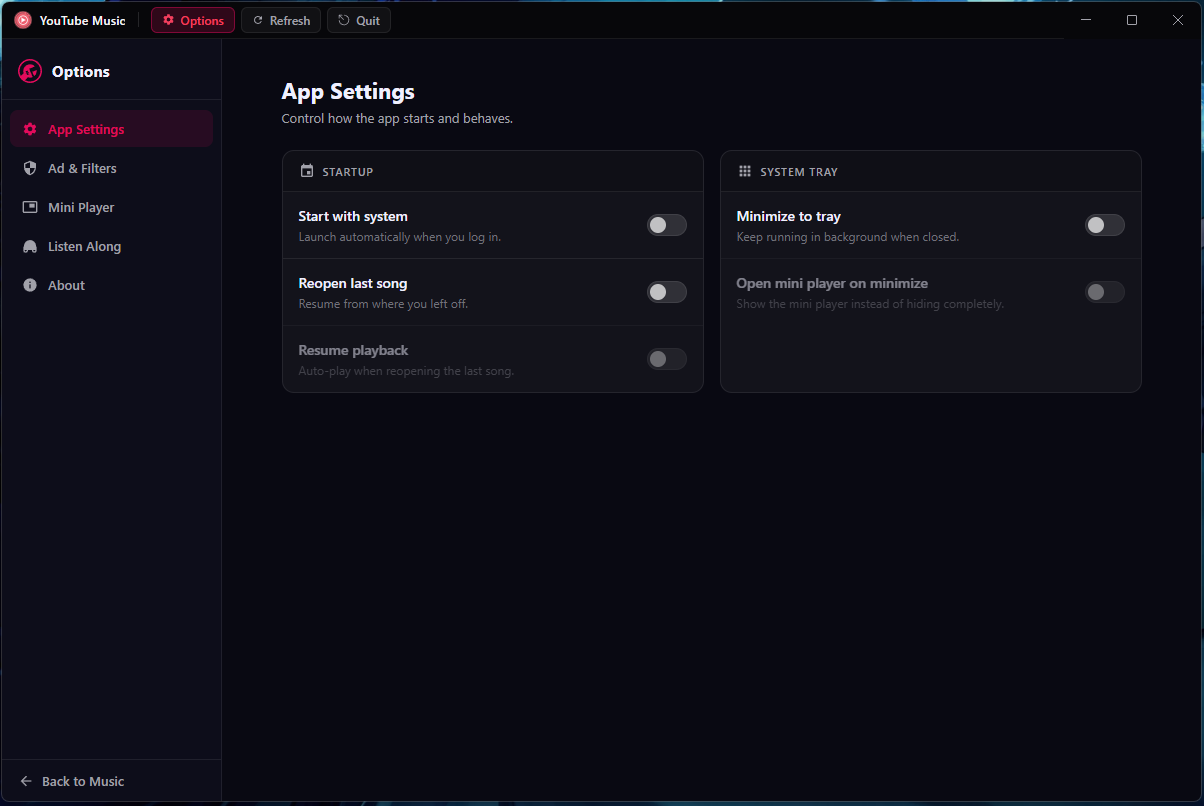
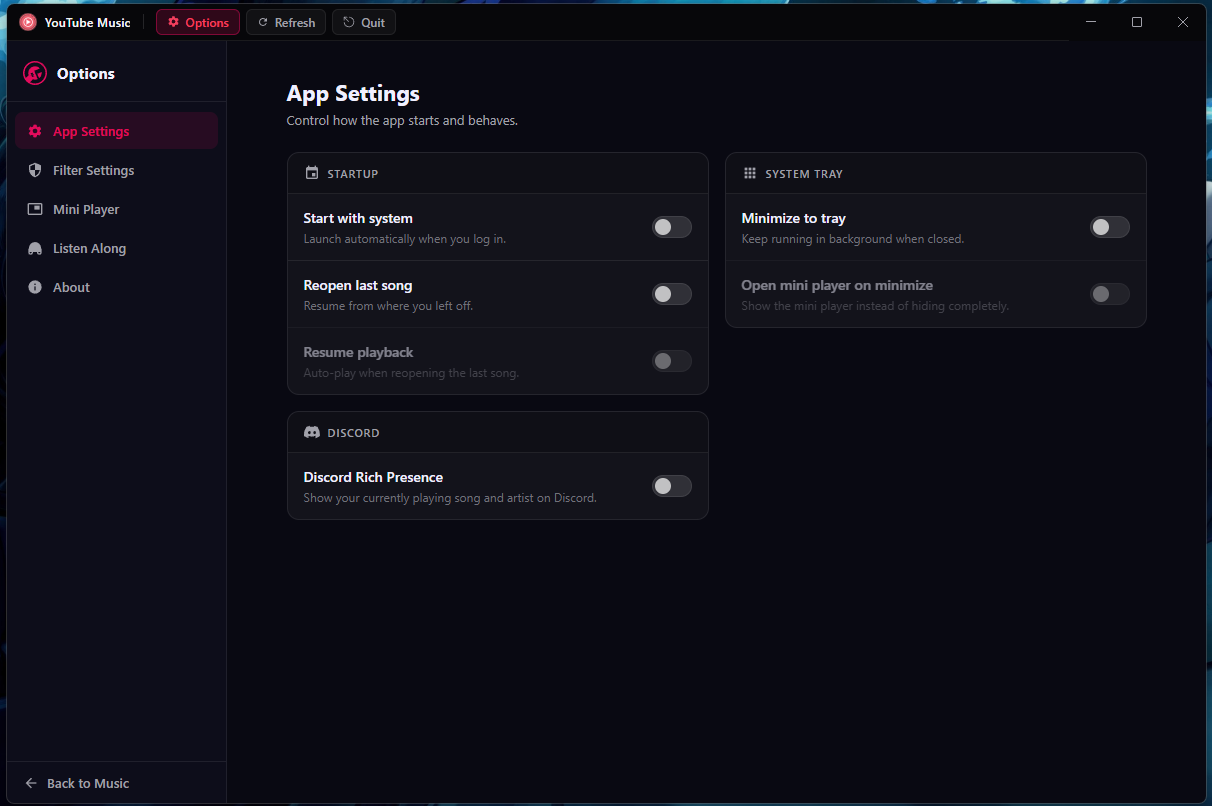
Discord RPC now has toggle turn on and off

diff --git a/options/options.html b/options/options.html
@@ -25,7 +25,7 @@
       </button>
       <button class="nav-item" data-tab="adblock">
         <svg viewBox="0 0 24 24" fill="currentColor"><path d="M12 1L3 5v6c0 5.55 3.84 10.74 9 12 5.16-1.26 9-6.45 9-12V5l-9-4zm0 10.99h7c-.53 4.12-3.28 7.79-7 8.94V12H5V6.3l7-3.11v8.8z"/></svg>
-        <span>Ad & Filters</span>
+        <span>Filter Settings</span>
       </button>
       <button class="nav-item" data-tab="miniplayer">
         <svg viewBox="0 0 24 24" fill="currentColor"><path d="M19 7h-8v6h8V7zm2-4H3C1.9 3 1 3.9 1 5v14c0 1.1.9 2 2 2h18c1.1 0 2-.9 2-2V5c0-1.1-.9-2-2-2zm0 16H3V5h18v14z"/></svg>
@@ -110,22 +110,38 @@
             <label class="switch"><input type="checkbox" id="miniplayer-on-minimize"><span class="slider"></span></label>
           </div>
         </div>
+
+        <div class="card">
+          <div class="card-header">
+            <div class="card-title">
+              <svg viewBox="0 0 24 24" fill="currentColor" width="16" height="16"><path d="M20.317 4.37a19.791 19.791 0 0 0-4.885-1.515.074.074 0 0 0-.079.037c-.21.375-.444.864-.608 1.25a18.27 18.27 0 0 0-5.487 0 12.64 12.64 0 0 0-.617-1.25.077.077 0 0 0-.079-.037A19.736 19.736 0 0 0 3.677 4.37a.07.07 0 0 0-.032.027C.533 9.046-.32 13.58.099 18.057a.082.082 0 0 0 .031.057 19.9 19.9 0 0 0 5.993 3.03.078.078 0 0 0 .084-.028c.462-.63.874-1.295 1.226-1.994.021-.041.001-.09-.041-.106a13.107 13.107 0 0 1-1.872-.892.077.077 0 0 1-.008-.128 10.2 10.2 0 0 0 .372-.292.074.074 0 0 1 .077-.01c3.929 1.793 8.18 1.793 12.061 0a.074.074 0 0 1 .078.01c.12.098.246.198.373.292a.077.077 0 0 1-.006.127 12.299 12.299 0 0 1-1.873.894.077.077 0 0 0-.041.107c.36.698.772 1.362 1.225 1.993a.076.076 0 0 0 .084.028 19.839 19.839 0 0 0 6.002-3.03.077.077 0 0 0 .032-.054c.5-5.177-.838-9.674-3.549-13.66a.061.061 0 0 0-.031-.028zM8.02 15.33c-1.183 0-2.157-1.085-2.157-2.419 0-1.333.956-2.419 2.157-2.419 1.21 0 2.176 1.096 2.157 2.42 0 1.333-.956 2.418-2.157 2.418zm7.975 0c-1.183 0-2.157-1.085-2.157-2.419 0-1.333.955-2.419 2.157-2.419 1.21 0 2.176 1.096 2.157 2.42 0 1.333-.946 2.418-2.157 2.418z"/></svg>
+              Discord
+            </div>
+          </div>
+          <div class="toggle-row">
+            <div class="toggle-info">
+              <span class="toggle-label">Discord Rich Presence</span>
+              <span class="toggle-desc">Show your currently playing song and artist on Discord.</span>
+            </div>
+            <label class="switch"><input type="checkbox" id="discord-rpc"><span class="slider"></span></label>
+          </div>
+        </div>
       </div>
     </section>
 
     <!-- Ad & filters tab -->
     <section class="tab-pane" id="tab-adblock">
       <div class="pane-header">
-        <h1 class="pane-title">Ad & Filters</h1>
-        <p class="pane-subtitle">Manage adblock lists and video ad skipping.</p>
+        <h1 class="pane-title">Filter Settings</h1>
+        <p class="pane-subtitle">Manage request filter lists and video skipping.</p>
       </div>
 
-      <!-- Adblock Status -->
+      <!-- Filter Status -->
       <div class="card status-card">
         <div class="card-header">
           <div class="card-title">
             <svg viewBox="0 0 24 24" fill="currentColor" width="16" height="16" style="color:var(--accent)"><path d="M12 1L3 5v6c0 5.55 3.84 10.74 9 12 5.16-1.26 9-6.45 9-12V5l-9-4zm0 10.99h7c-.53 4.12-3.28 7.79-7 8.94V12H5V6.3l7-3.11v8.8z"/></svg>
-            Adblock Status
+            Filter Status
           </div>
         </div>
         <div class="status-grid">
@@ -136,18 +152,18 @@
         </div>
       </div>
 
-      <!-- Video Ad Skipper -->
+      <!-- Video Skipper -->
       <div class="card">
         <div class="card-header">
           <div class="card-title">
             <svg viewBox="0 0 24 24" fill="currentColor" width="16" height="16" style="color:var(--accent2)"><path d="M4 18l8.5-6L4 6v12zm9-12v12l8.5-6L13 6z"/></svg>
-            Video Ad Skipper
+            Video Skipper
           </div>
         </div>
         <div class="toggle-row">
           <div class="toggle-info">
             <span class="toggle-label">Simple Skipper</span>
-            <span class="toggle-desc">Auto-skips video ads at the selected playback speed.</span>
+            <span class="toggle-desc">Auto-skips promo videos at the selected playback speed.</span>
           </div>
           <div class="toggle-controls">
             <select id="ad-skip-speed" class="select-box">

diff --git a/main.js b/main.js
@@ -27,7 +27,11 @@ const {
   resetAdblockStats: resetAdblockStatsExternal,
 } = require("./adblock/filters");
 const { injectVideoAdSkipper } = require("./adblock/videoAdSkipper");
-const { initDiscordRpc } = require("./integrations/discordRpc");
+const {
+  initDiscordRpc,
+  setDiscordRpcEnabled,
+  isDiscordRpcEnabled,
+} = require("./integrations/discordRpc");
 const {
   initListenAlong,
   createParty,
@@ -70,6 +74,7 @@ let openLastSong = false;
 let resumePlayback = false;
 let lastUrl = "https://music.youtube.com";
 let mainWindowBounds = { x: undefined, y: undefined, width: 1200, height: 800 };
+let discordRpcEnabled = true;
 
 // Listen Along
 let listenAlongServerUrl = DEFAULT_SERVER_URL;
@@ -158,6 +163,7 @@ async function loadConfig() {
       ? config.lastUrl || "https://music.youtube.com"
       : "https://music.youtube.com";
     resumePlayback = config.resumePlayback || false;
+    discordRpcEnabled = config.discordRpcEnabled !== undefined ? !!config.discordRpcEnabled : true;
     mainWindowBounds = config.mainWindowBounds || {
       x: undefined,
       y: undefined,
@@ -194,6 +200,7 @@ async function saveConfig() {
       lastUrl: lastUrl,
       openLastSong: openLastSong,
       resumePlayback: resumePlayback,
+      discordRpcEnabled: discordRpcEnabled,
       miniPlayerBounds: miniConfig.miniPlayerBounds,
       mainWindowBounds: mainWindowBounds,
       miniPlayerTheme: miniConfig.miniPlayerTheme,
@@ -614,6 +621,7 @@ ipcMain.handle("options:get-app-settings", () => {
     resumePlayback,
     minimizeToTray,
     openMiniPlayerOnMinimize: getOpenMiniPlayerOnMinimize(),
+    discordRpcEnabled,
   };
 });
 
@@ -625,6 +633,11 @@ ipcMain.on("options:save-app-settings", (event, s) => {
   if (typeof s.resumePlayback === "boolean") toggleResumeBehavior(s.resumePlayback);
   if (typeof s.minimizeToTray === "boolean") toggleTrayBehavior(s.minimizeToTray);
   if (typeof s.openMiniPlayerOnMinimize === "boolean") toggleMiniPlayerOnMinimize(s.openMiniPlayerOnMinimize);
+  if (typeof s.discordRpcEnabled === "boolean" && s.discordRpcEnabled !== discordRpcEnabled) {
+    discordRpcEnabled = s.discordRpcEnabled;
+    setDiscordRpcEnabled(discordRpcEnabled);
+    saveConfig();
+  }
 });
 
 ipcMain.handle("options:check-for-updates", async () => {
@@ -1074,7 +1087,7 @@ async function createWindow() {
         isDestroyed: () => !ytView || ytView.webContents.isDestroyed(),
         loadURL: (url) => ytView.webContents.loadURL(url),
       };
-      initDiscordRpc(playerHost);
+      initDiscordRpc(playerHost, discordRpcEnabled);
       initListenAlong(playerHost, pushListenAlongState);
       require("./listen-along/listenAlong").setAutoHost(listenAlongAutoHost, listenAlongHostName);
       if (listenAlongAutoHost && listenAlongHostName && listenAlongHostName.trim().length >= 3) {

diff --git a/integrations/discordRpc.js b/integrations/discordRpc.js
@@ -6,16 +6,39 @@ let client = null;
 let presenceUpdateInterval = null;
 let reconnectTimer = null;
 let connecting = false;
+let rpcEnabled = true;
+
+function isDiscordRpcEnabled() {
+  return rpcEnabled;
+}
+
+function setDiscordRpcEnabled(enabled) {
+  const next = !!enabled;
+  if (rpcEnabled === next) return;
+  rpcEnabled = next;
+  console.log(`[Discord RPC] Enabled: ${rpcEnabled}`);
+  if (!rpcEnabled) {
+    if (reconnectTimer) {
+      clearTimeout(reconnectTimer);
+      reconnectTimer = null;
+    }
+    teardownClient();
+  } else {
+    if (mainWindowRef && !mainWindowRef.isDestroyed()) {
+      connectToDiscord();
+    }
+  }
+}
 
 function isClientAlive(c) {
   return !!c && (typeof c.isConnected === "boolean" ? c.isConnected : true);
 }
 
 function scheduleReconnect(delay = 10000) {
-  if (reconnectTimer) return;
+  if (!rpcEnabled || reconnectTimer) return;
   reconnectTimer = setTimeout(() => {
     reconnectTimer = null;
-    connectToDiscord();
+    if (rpcEnabled) connectToDiscord();
   }, delay);
 }
 
@@ -28,6 +51,9 @@ function teardownClient() {
   client = null;
   if (old) {
     try {
+      if (typeof old.user?.clearActivity === "function") {
+        Promise.resolve(old.user.clearActivity()).catch(() => {});
+      }
       old.removeAllListeners();
       old.on("error", () => {});
       Promise.resolve(old.destroy()).catch(() => {});
@@ -36,6 +62,7 @@ function teardownClient() {
 }
 
 function handleDiscordDisconnect() {
+  if (!rpcEnabled) return;
   console.warn("Discord connection lost. Reconnecting in 10s...");
   teardownClient();
   scheduleReconnect();
@@ -268,7 +295,7 @@ async function getCurrentSongInfo() {
 }
 
 async function connectToDiscord() {
-  if (connecting) return;
+  if (!rpcEnabled || connecting) return;
   connecting = true;
 
   teardownClient();
@@ -327,7 +354,9 @@ async function connectToDiscord() {
   }
 }
 
-function initDiscordRpc(mainWindow) {
+function initDiscordRpc(mainWindow, enabled = true) {
+  rpcEnabled = enabled !== undefined ? !!enabled : true;
+
   if (!clientId) {
     console.warn("Discord RPC disabled: YTMP_DISCORD_CLIENT_ID is not set.");
     return;
@@ -339,9 +368,13 @@ function initDiscordRpc(mainWindow) {
   }
 
   mainWindowRef = mainWindow;
-  connectToDiscord();
+  if (rpcEnabled) {
+    connectToDiscord();
+  }
 }
 
 module.exports = {
   initDiscordRpc,
+  setDiscordRpcEnabled,
+  isDiscordRpcEnabled,
 };

diff --git a/options/options.js b/options/options.js
@@ -37,6 +37,7 @@ const openLastSongEl = document.getElementById('open-last-song');
 const resumePlayEl = document.getElementById('resume-playback');
 const minToTrayEl = document.getElementById('minimize-to-tray');
 const mpOnMinimizeEl = document.getElementById('miniplayer-on-minimize');
+const discordRpcEl = document.getElementById('discord-rpc');
 const resumeRow = document.getElementById('resume-row');
 const mpMinimizeRow = document.getElementById('miniplayer-on-minimize-row');
 
@@ -53,11 +54,12 @@ async function autoSaveAppSettings() {
     resumePlayback: resumePlayEl.checked,
     minimizeToTray: minToTrayEl.checked,
     openMiniPlayerOnMinimize: mpOnMinimizeEl.checked,
+    discordRpcEnabled: discordRpcEl ? discordRpcEl.checked : true,
   });
 }
 
-[startWithSystem, openLastSongEl, resumePlayEl, minToTrayEl, mpOnMinimizeEl].forEach(el => {
-  el.addEventListener('change', autoSaveAppSettings);
+[startWithSystem, openLastSongEl, resumePlayEl, minToTrayEl, mpOnMinimizeEl, discordRpcEl].forEach(el => {
+  if (el) el.addEventListener('change', autoSaveAppSettings);
 });
 
 async function loadAppSettings() {
@@ -67,6 +69,9 @@ async function loadAppSettings() {
   resumePlayEl.checked = s.resumePlayback;
   minToTrayEl.checked = s.minimizeToTray;
   mpOnMinimizeEl.checked = s.openMiniPlayerOnMinimize;
+  if (discordRpcEl) {
+    discordRpcEl.checked = s.discordRpcEnabled !== false;
+  }
   syncSubToggles();
 }
 

diff --git a/options/options.css b/options/options.css
@@ -185,7 +185,7 @@ body {
   overflow: hidden;
 }
 
-.cards-grid { display: grid; grid-template-columns: 1fr 1fr; gap: 16px; }
+.cards-grid { display: grid; grid-template-columns: 1fr 1fr; gap: 16px; align-items: start; }
 @media (max-width: 700px) { .cards-grid { grid-template-columns: 1fr; } }
 
 .card-header {
